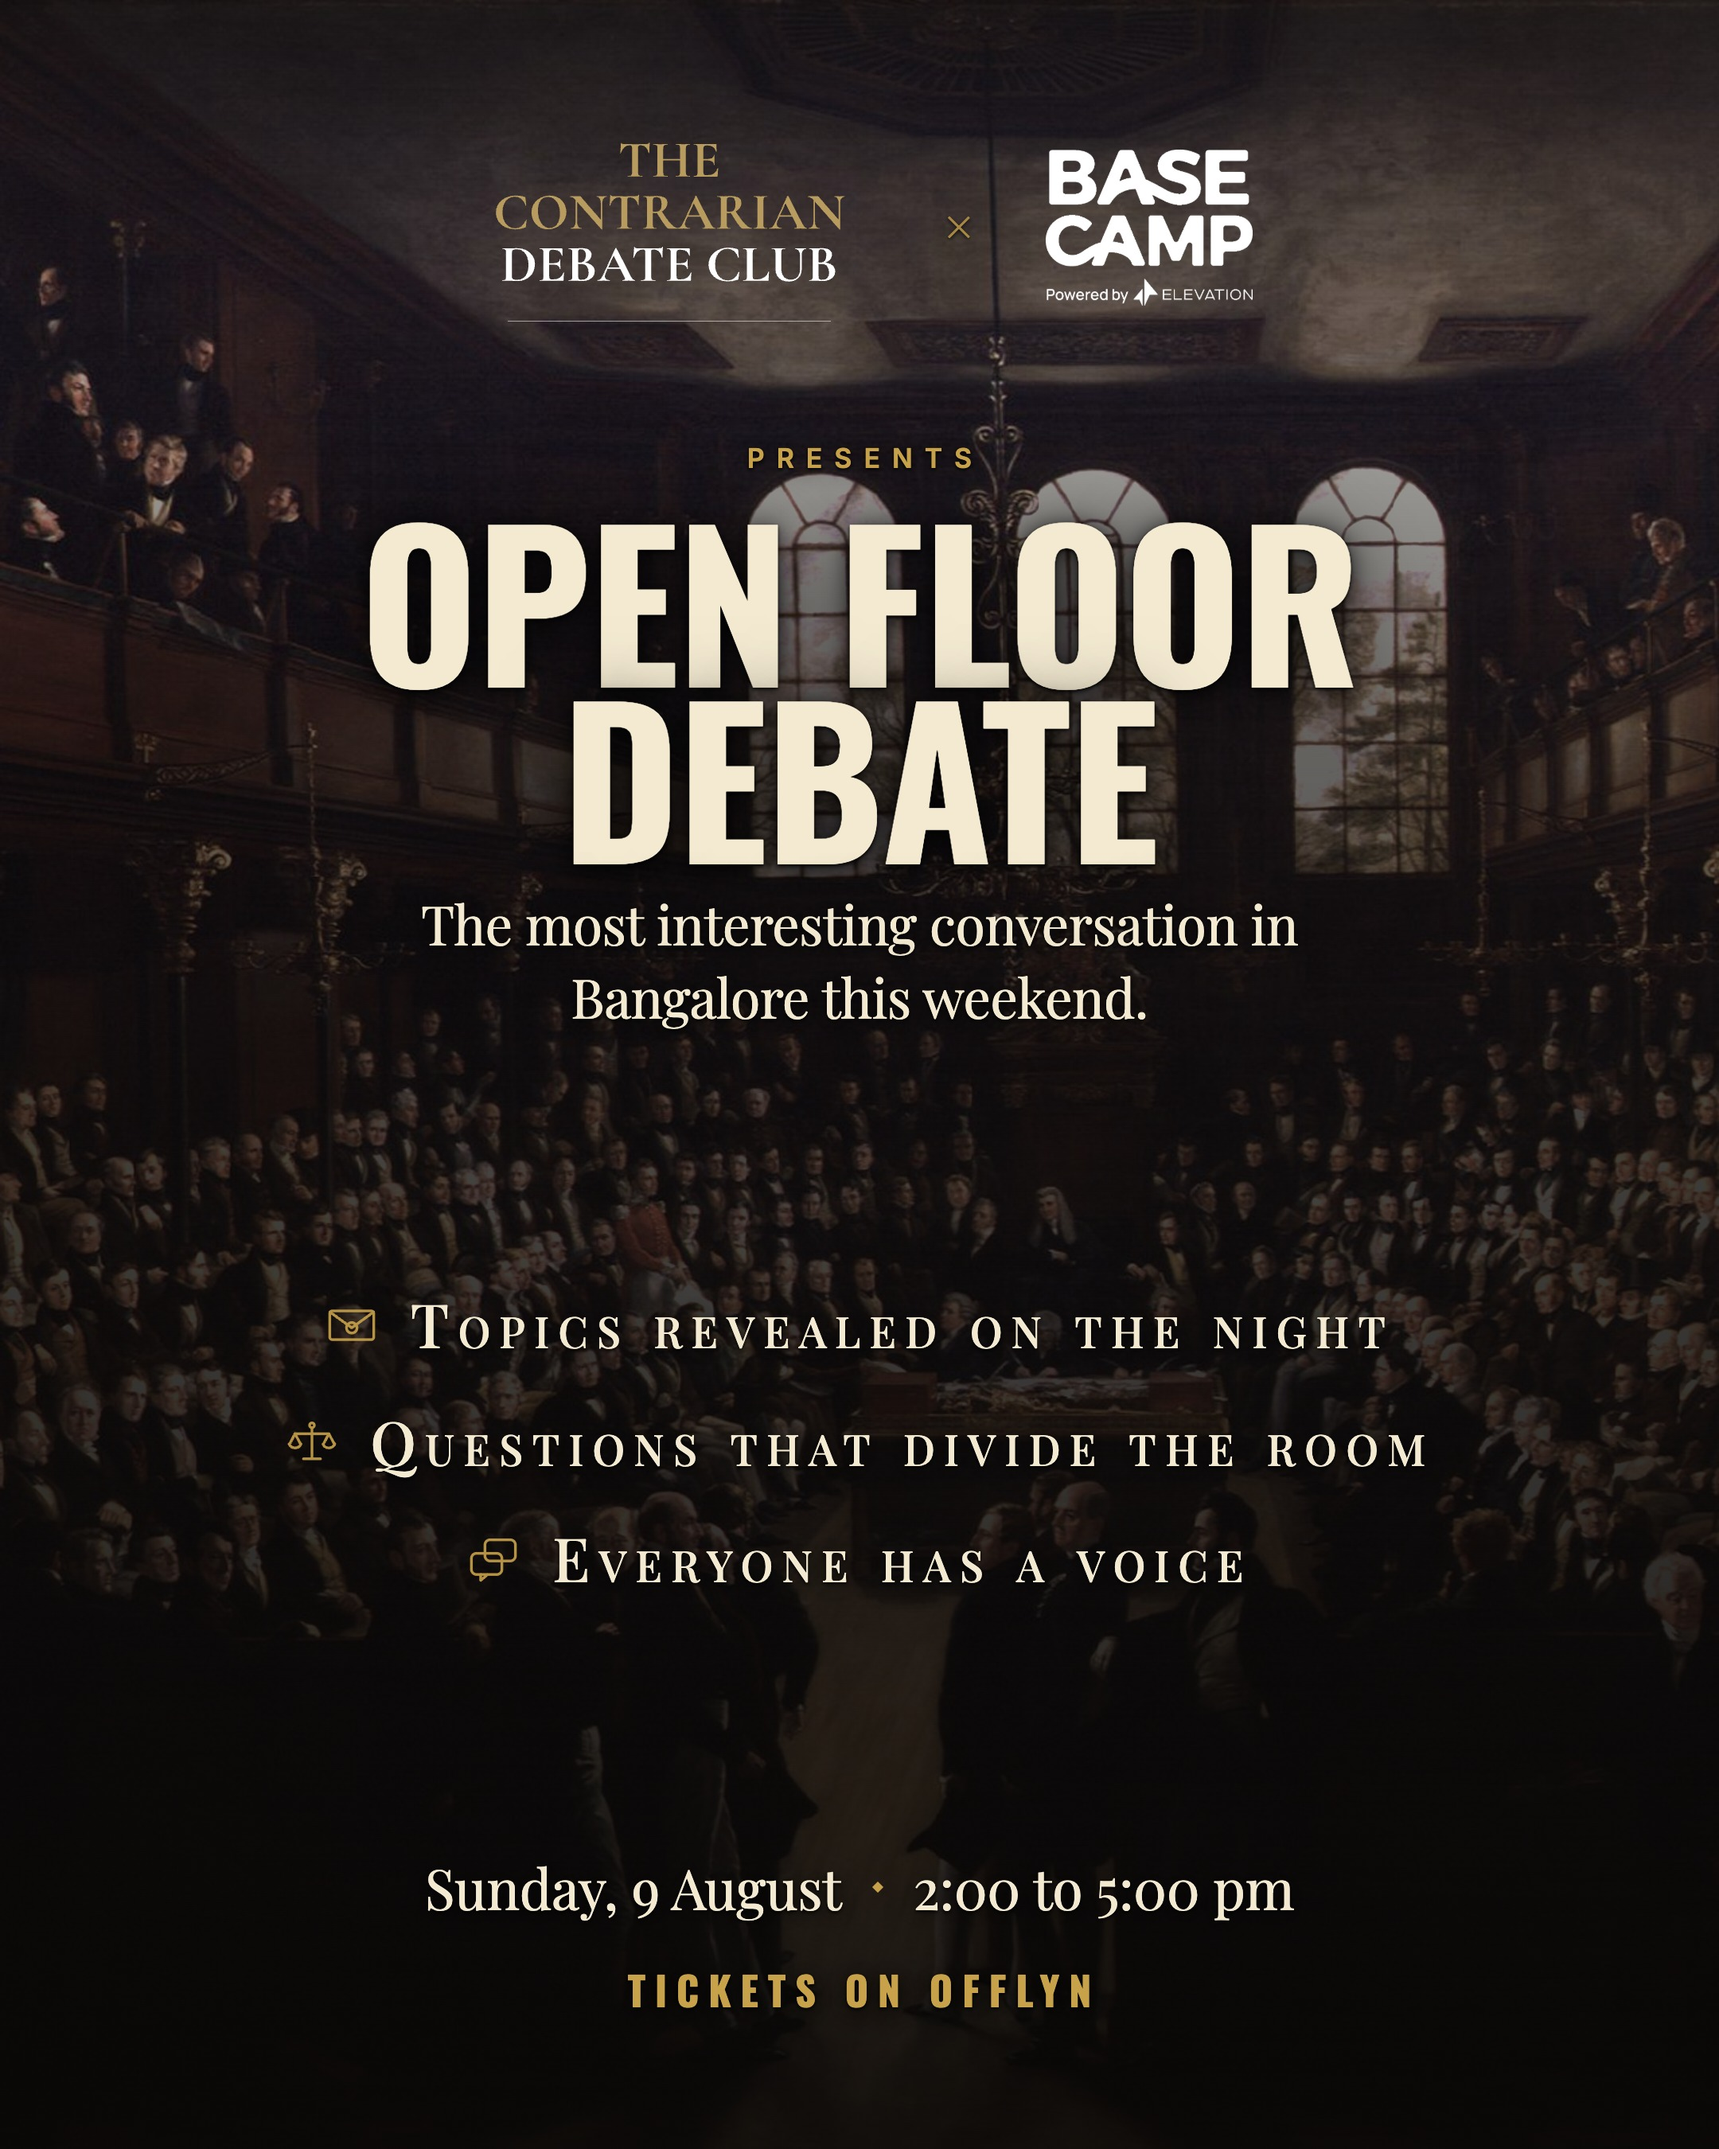
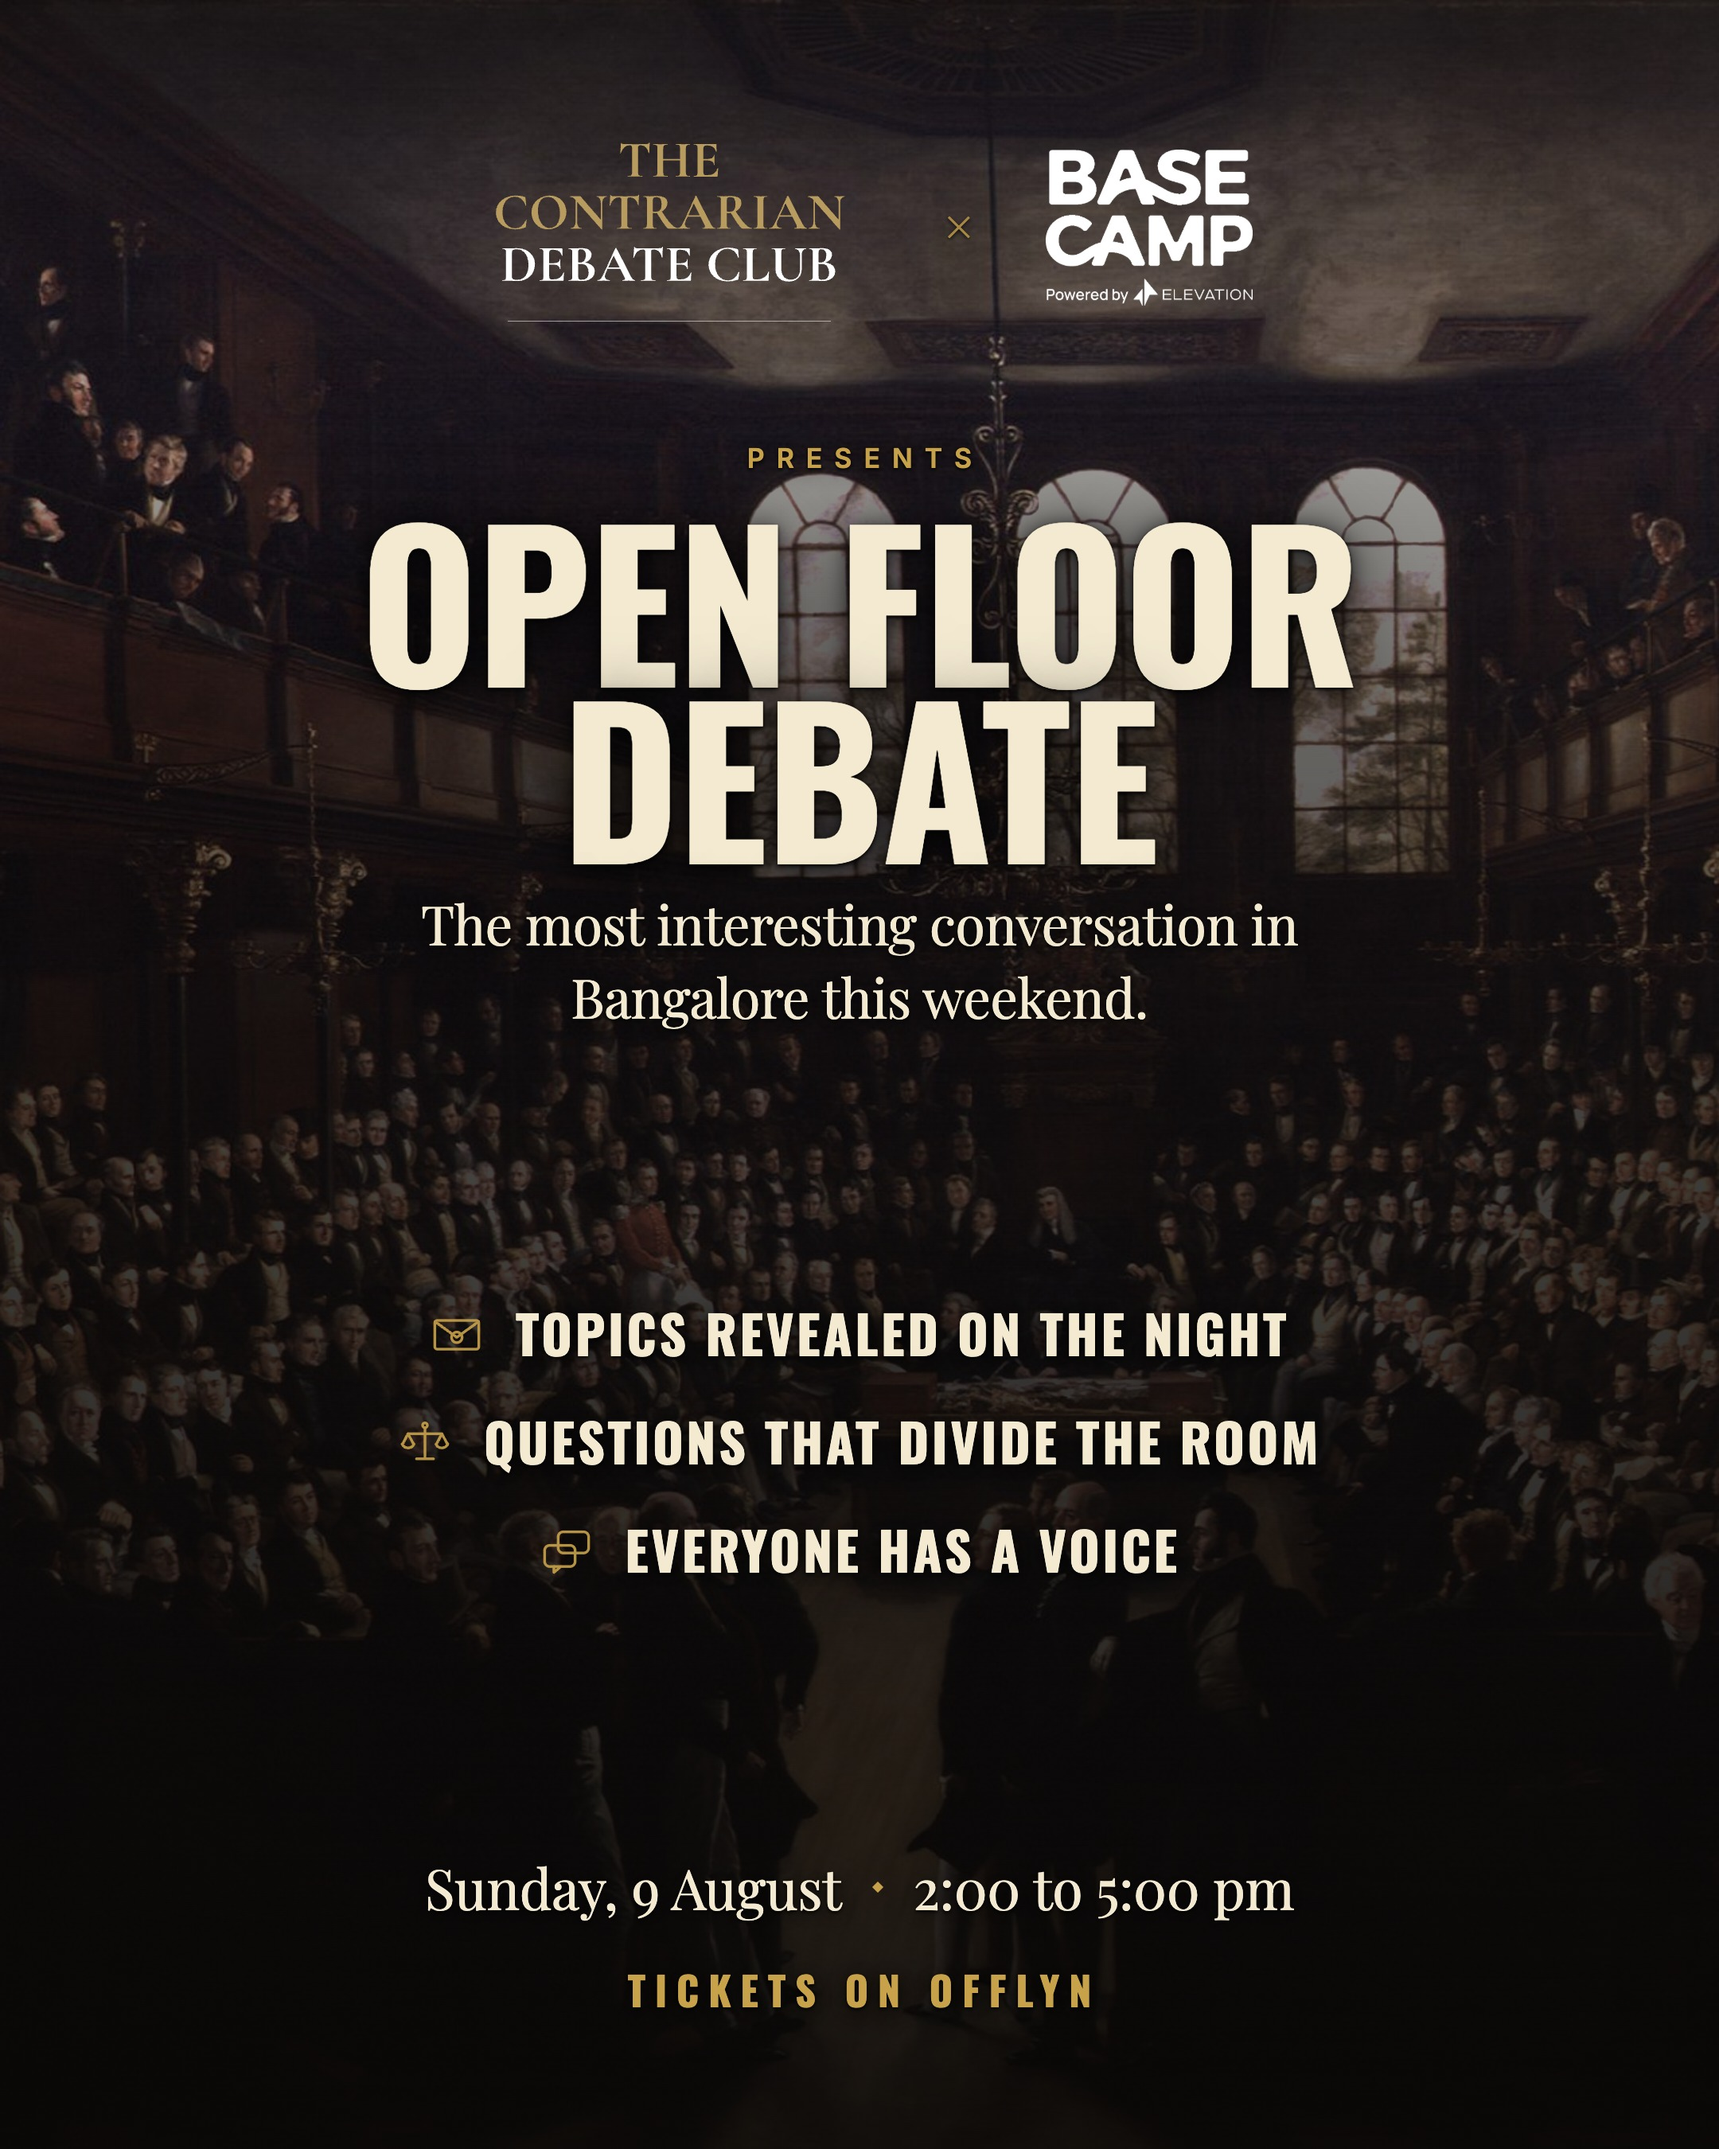
Revert "type(posters): checklist into small-caps serif"
Puts the checklist back on the condensed sans. Keeps the tagline at 16px,
which was a separate request.

diff --git a/posters/works/2026-08-09-open-floor-debate/slides.tsx b/posters/works/2026-08-09-open-floor-debate/slides.tsx
@@ -734,18 +734,14 @@ function Beat({ icon, label }: { icon: IconName; label: string }) {
       }}
     >
       <Icon name={icon} size={34} />
-      {/* Small caps in the display serif, generously tracked. The condensed
-          sans said sports fixture; this says printed programme, which is the
-          room we are actually describing. The initial cap stays full height,
-          so the line keeps a little ceremony. */}
       <span
         style={{
-          fontFamily: "var(--cc-font-display)",
-          fontWeight: 500,
-          fontVariantCaps: "small-caps",
-          fontSize: 38,
-          letterSpacing: "0.15em",
-          lineHeight: 1.04,
+          fontFamily: "var(--cc-font-condensed)",
+          fontWeight: 700,
+          textTransform: "uppercase",
+          fontSize: 33,
+          letterSpacing: "0.055em",
+          lineHeight: 1.02,
           color: "var(--cc-ivory)",
         }}
       >
